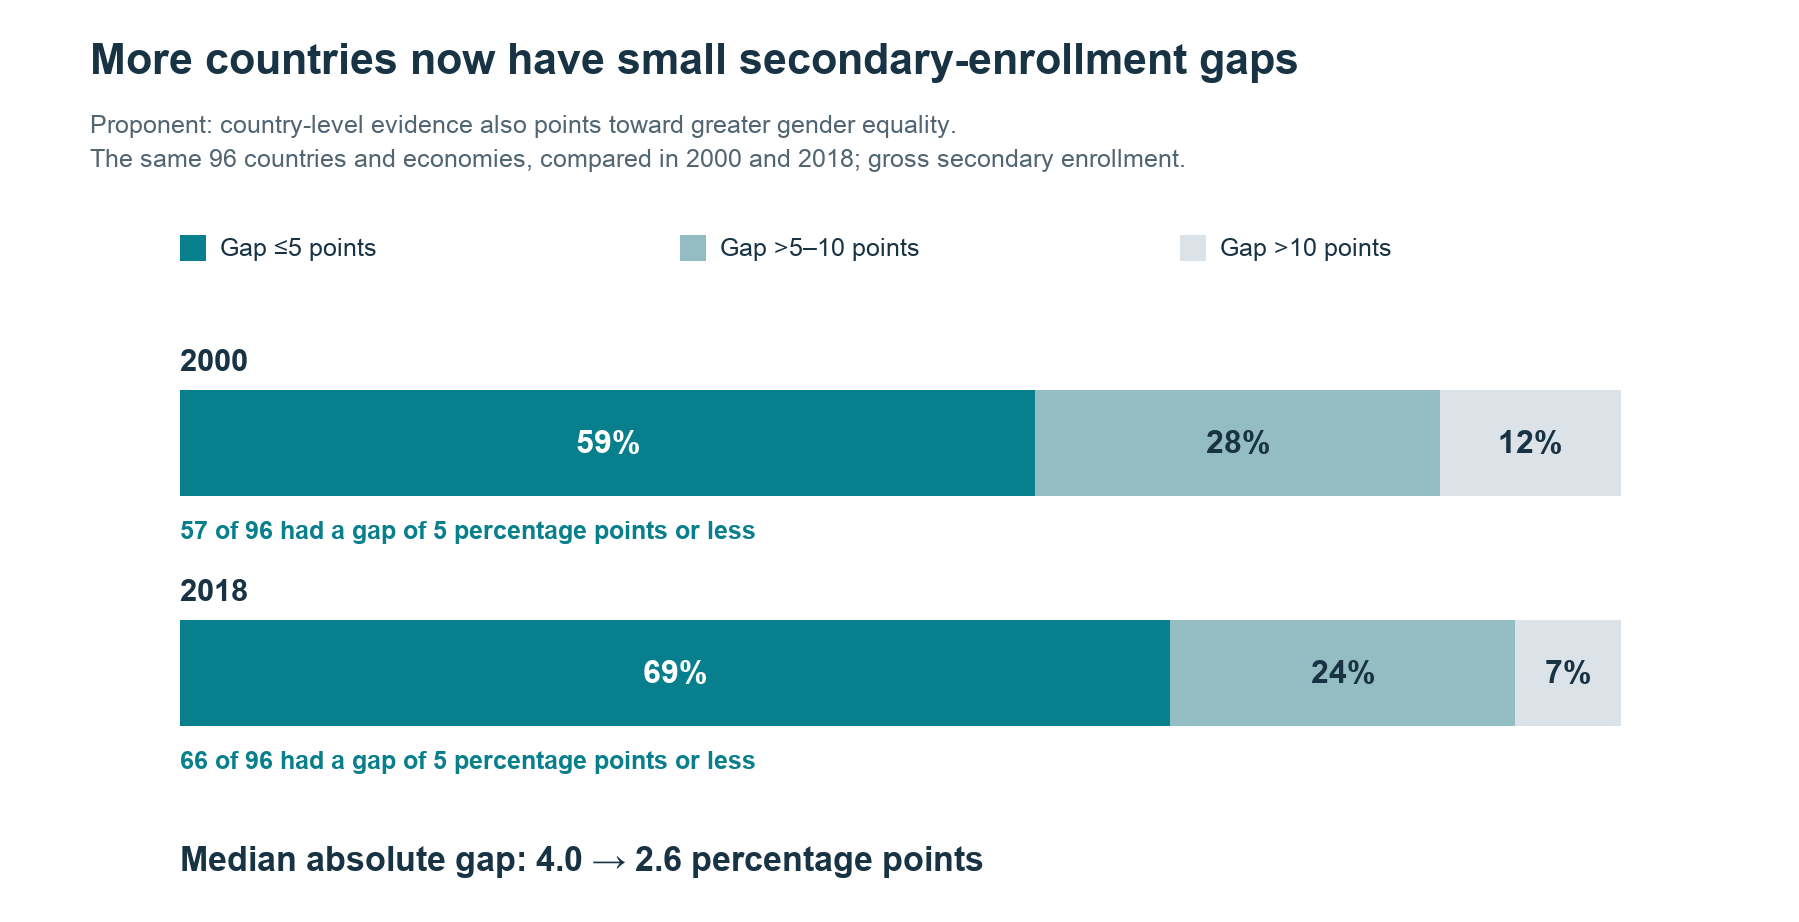
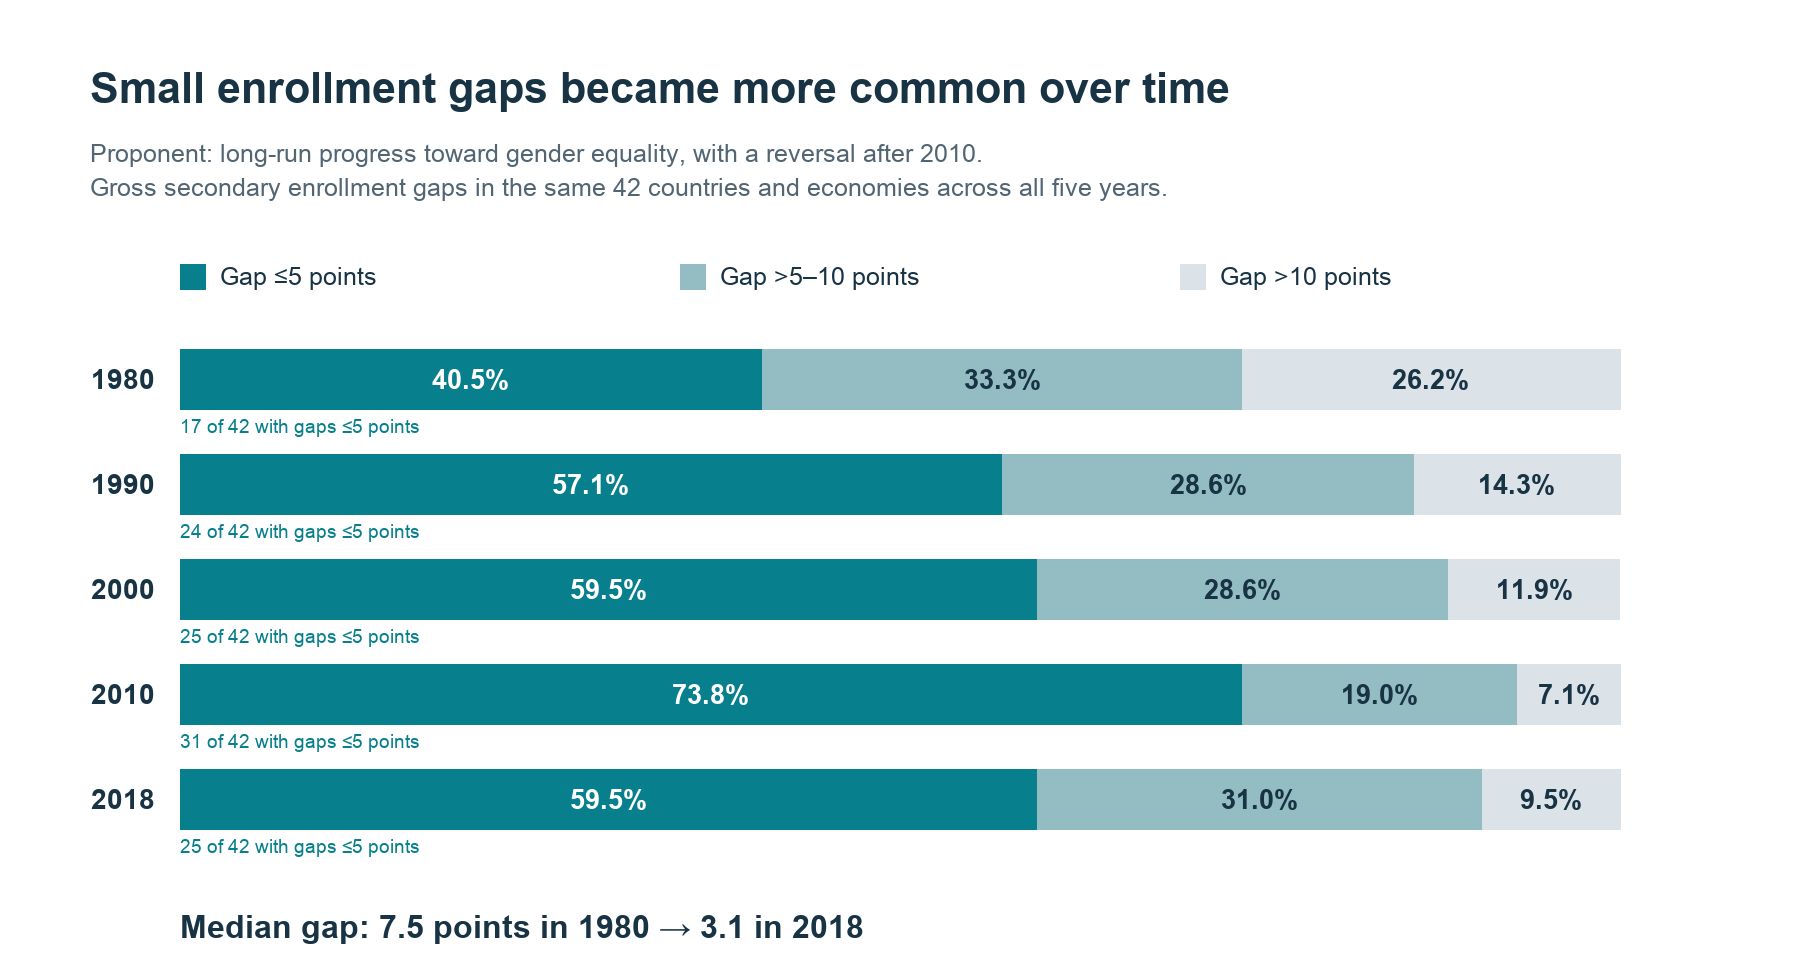
Updated visualization and wording

diff --git a/index.html b/index.html
@@ -158,7 +158,7 @@ li { margin-bottom: 0.85em; }
 <section>
 <h3>FOR the Proposition</h3>
 <figure>
-<img alt="Stacked bars comparing secondary-school enrollment gender gap sizes in 2000 and 2018" src="graph1.png" style="display:block;max-width:100%;height:auto;margin:auto;"/>
+<img alt="Stacked bars comparing secondary-school enrollment gender gap sizes from 1980 to 2018" src="graph1.png" style="display:block;max-width:100%;height:auto;margin:auto;"/>
 <figcaption>More countries now have small secondary-enrollment gaps</figcaption>
 </figure>
 <p>Design Decisions and Rationale:</p>
